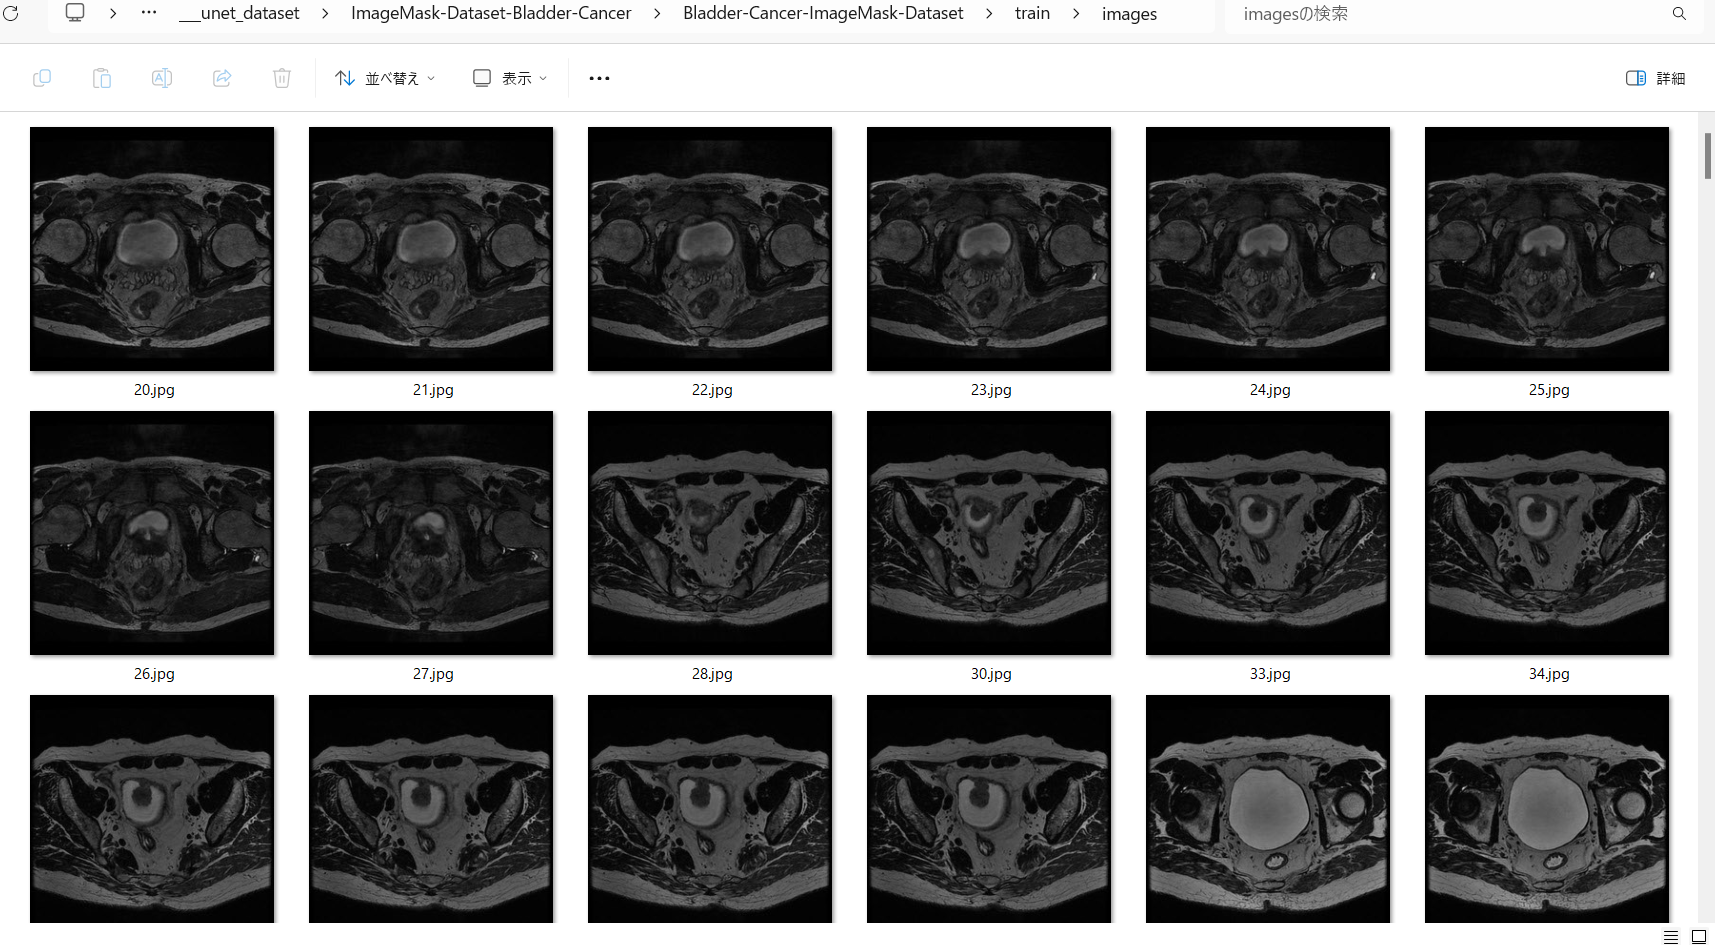
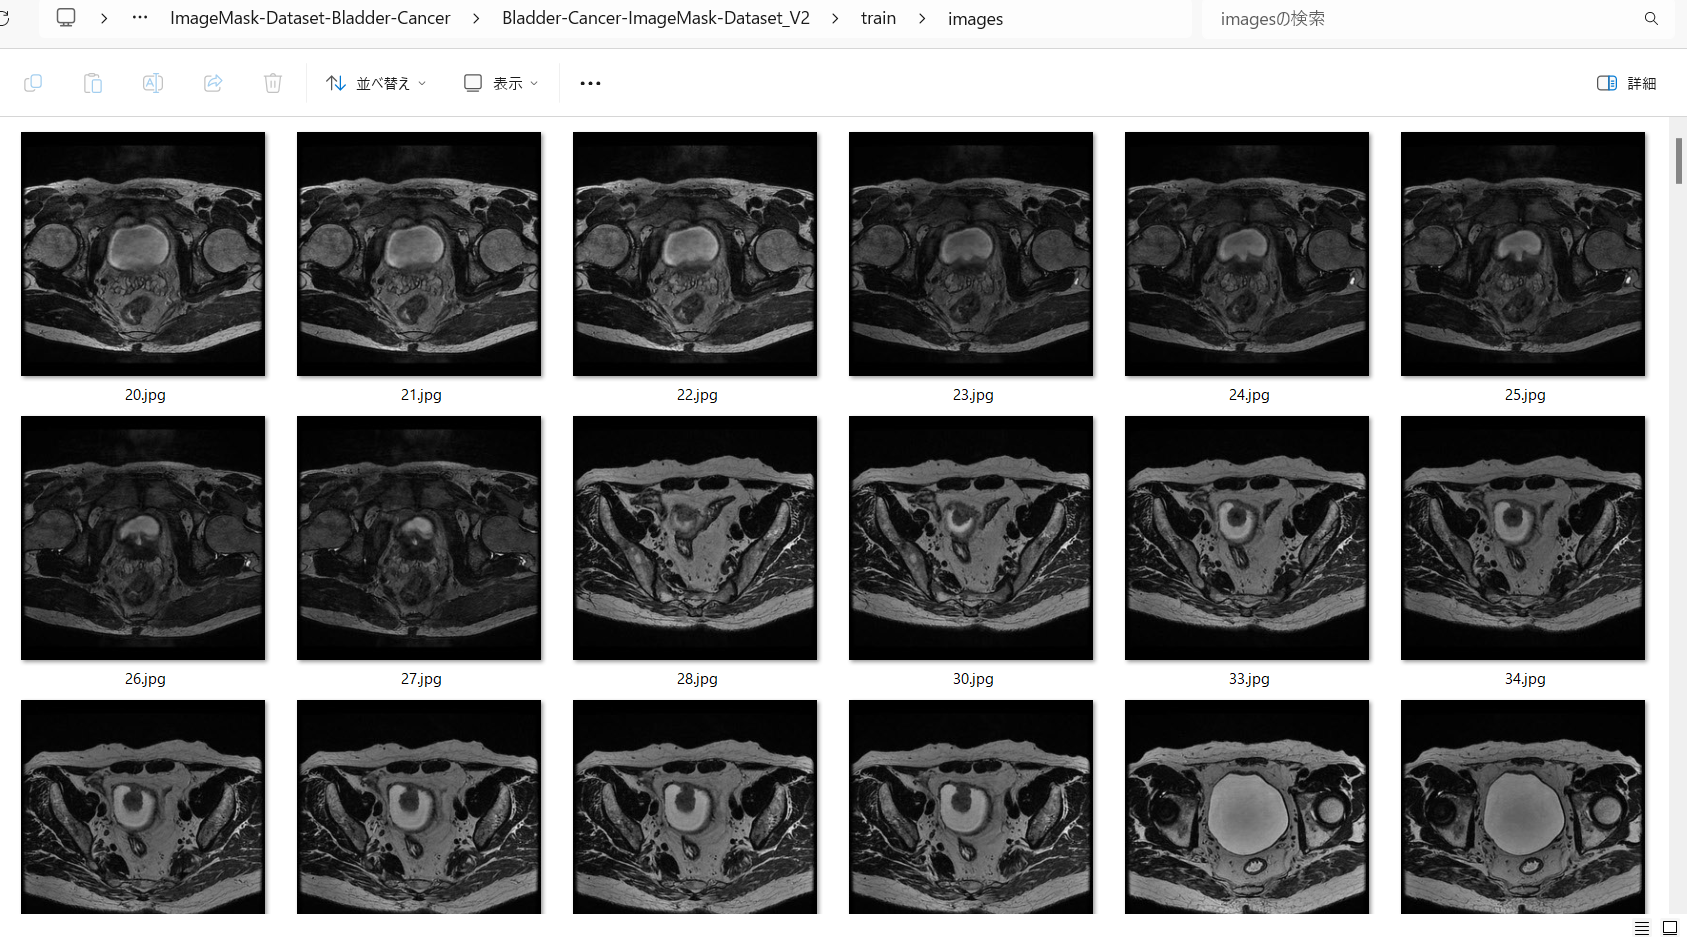
Modified to normalize images in bladder_cancer_dataset/tumor_images.

diff --git a/generator/ImageMaskDatasetGenerator.py b/generator/ImageMaskDatasetGenerator.py
@@ -16,14 +16,8 @@
 #
 # ImageMaskDatasegGenerator.py
 # 2024/03/12 Antillia.com Toshiyuki Arai
-
 # 
-# 1 This splits the original Kvasir-SEG: A Segmented Polyp Dataset 
-# to three subsets train, test and valid. 
-# https://paperswithcode.com/dataset/kvasir-seg
-
-# 2 Resize all image and masks to 512x512
-#
+# 2024/04/15 Modified to normalize images.
 
 #    
 import sys
@@ -87,6 +81,31 @@ class ImageMaskDatasetGenerator:
     self.create_resized_files(test_files,  "test")
 
 
+  def pil_to_cv(self, image):
+    new_image = np.array(image, dtype=np.uint8)
+    if new_image.shape[2] == 3: 
+      new_image = cv2.cvtColor(new_image, cv2.COLOR_RGB2BGR)
+    return new_image
+
+
+  def cv_to_pil(self, image):
+    new_image = image.copy()
+    if new_image.shape[2] == 3:  
+      new_image = cv2.cvtColor(new_image, cv2.COLOR_BGR2RGB)
+    new_image = Image.fromarray(new_image)
+    return new_image
+  
+  def normalize(self, image):
+    image = self.pil_to_cv(image)
+
+    min = np.min(image)/255.0
+    max = np.max(image)/255.0
+    scale = (max - min)
+    image = (image - min) / scale
+    image = image.astype('uint8') 
+    image = self.cv_to_pil(image)
+    return image   
+
   def create_resized_files(self, image_files, dataset): 
     # target = train_or_test_or_valid_dir:
    
@@ -124,7 +143,9 @@ class ImageMaskDatasetGenerator:
 
       image_background = Image.new("RGB", (size, size), (0, 0, 0))
       image_background.paste(image, (px, py))
-    
+      # 2024/03/15: Added the following line.
+      image_background = self.normalize(image_background)
+
       mask_background = Image.new("L", (size, size))
       mask_background.paste(mask, (px, py))
       resized_image = image_background.resize((W, H))
@@ -212,16 +233,22 @@ if __name__ == "__main__":
     masks_dir  = "./bladder_cancer_dataset/tumour_label"
     output_dir = "../Bladder-Cancer-ImageMask-Dataset"
     augmentor  = False
+
     if len(sys.argv) == 2:
       agumentor = sys.argv[1]
       if agumentor == "True" or augmentor == "False":
          augmentor = eval(agumentor)
       else:
         raise Exception("Invalid command line parameter" + augmentor)
+      
     if not os.path.exists(images_dir):
       raise Exception("===NOT FOUND " + images_dir)
     if not os.path.exists(masks_dir):
       raise Exception("===NOT FOUND " + masks_dir)
+
+    if augmentor:
+      output_dir = "../Augmented-Bladder-Cancer-ImageMask-Dataset"
+      print("--- augmentor True")
 
     if os.path.exists(output_dir):
       shutil.rmtree(output_dir)
@@ -230,9 +257,7 @@ if __name__ == "__main__":
       
     # create_master_512x512 dataset train, test
     # from the orignal SEG .
-    if augmentor:
-      output_dir = "../Augmented-Bladder-Cancer-ImageMask-Dataset"
-      print("--- augmentor True")
+
     generator = ImageMaskDatasetGenerator(images_dir, masks_dir, output_dir, augmentor=augmentor)
     generator.generate()
 

diff --git a/README.md b/README.md
@@ -1,7 +1,8 @@
-<h2>ImageMask-Dataset-Bladder-Cancer (Updated: 2024/03/14)</h2>
+<h2>ImageMask-Dataset-Bladder-Cancer (Updated: 2024/03/15)</h2>
 This is a Bladder-Cancer ImageMask Dataset for Image Segmentation.<br>  
 <br>
-
+<li>2024/03/15: Modified to normalize images in bladder_cancer_dataset/tumor_images.</li>
+<br>
 <h3>1. Dataset Citatioin</h3>
 
 The image dataset used here has been taken from the following github site.<br>
@@ -77,7 +78,14 @@ By using the script above, we have finally created the following dataset.<br>
 <br>
 <br>
 
-You can download the dataset from the google drive 
+You can download the latest normalized dataset from the google drive 
+<a href="You can download the dataset from the google drive 
+<a href="https://drive.google.com/file/d/176ewCOeQA1_lhqjGpykJFhaLdvTRYCn5/view?usp=sharing">
+Bladder-Cancer-ImageMask-Dataset_V2.zip</a> (2024/03/15)
+">
+<br>
+
+You can also download the old_dataset from the google drive 
 <a href="https://drive.google.com/file/d/1qxBodGJCC_MuEnusmLLj3f7wdRRwjg1S/view?usp=sharing">
 Bladder-Cancer-ImageMask-Dataset.zip</a> (2024/03/12)
 
@@ -117,7 +125,12 @@ By using the script above, we have finally created the following dataset.<br>
 <img src ="./_Augmented-Bladder-Cancer-ImageMask-Dataset_.png" width="480" height="auto"><br>
 <br>
 <br>
-You can download the dataset from the google drive 
+You can also download the latest normalized dataset from the google drive 
+<a href="https://drive.google.com/file/d/1BEVmUjRoUl42OyNinA7H9i7opvzW-bWC/view?usp=sharing">
+Augmented-Bladder-Cancer-ImageMask-Dataset_V2.zip</a> (2024/03/15)
+
+<br>
+You can also download the old dataset from the google drive 
 <a href="https://drive.google.com/file/d/1giA8mQWCfCFpuivDrsrFY7bHT7KutM_q/view?usp=sharing">
 Augmented-Bladder-Cancer-ImageMask-Dataset.zip</a> (2024/03/14)
 
